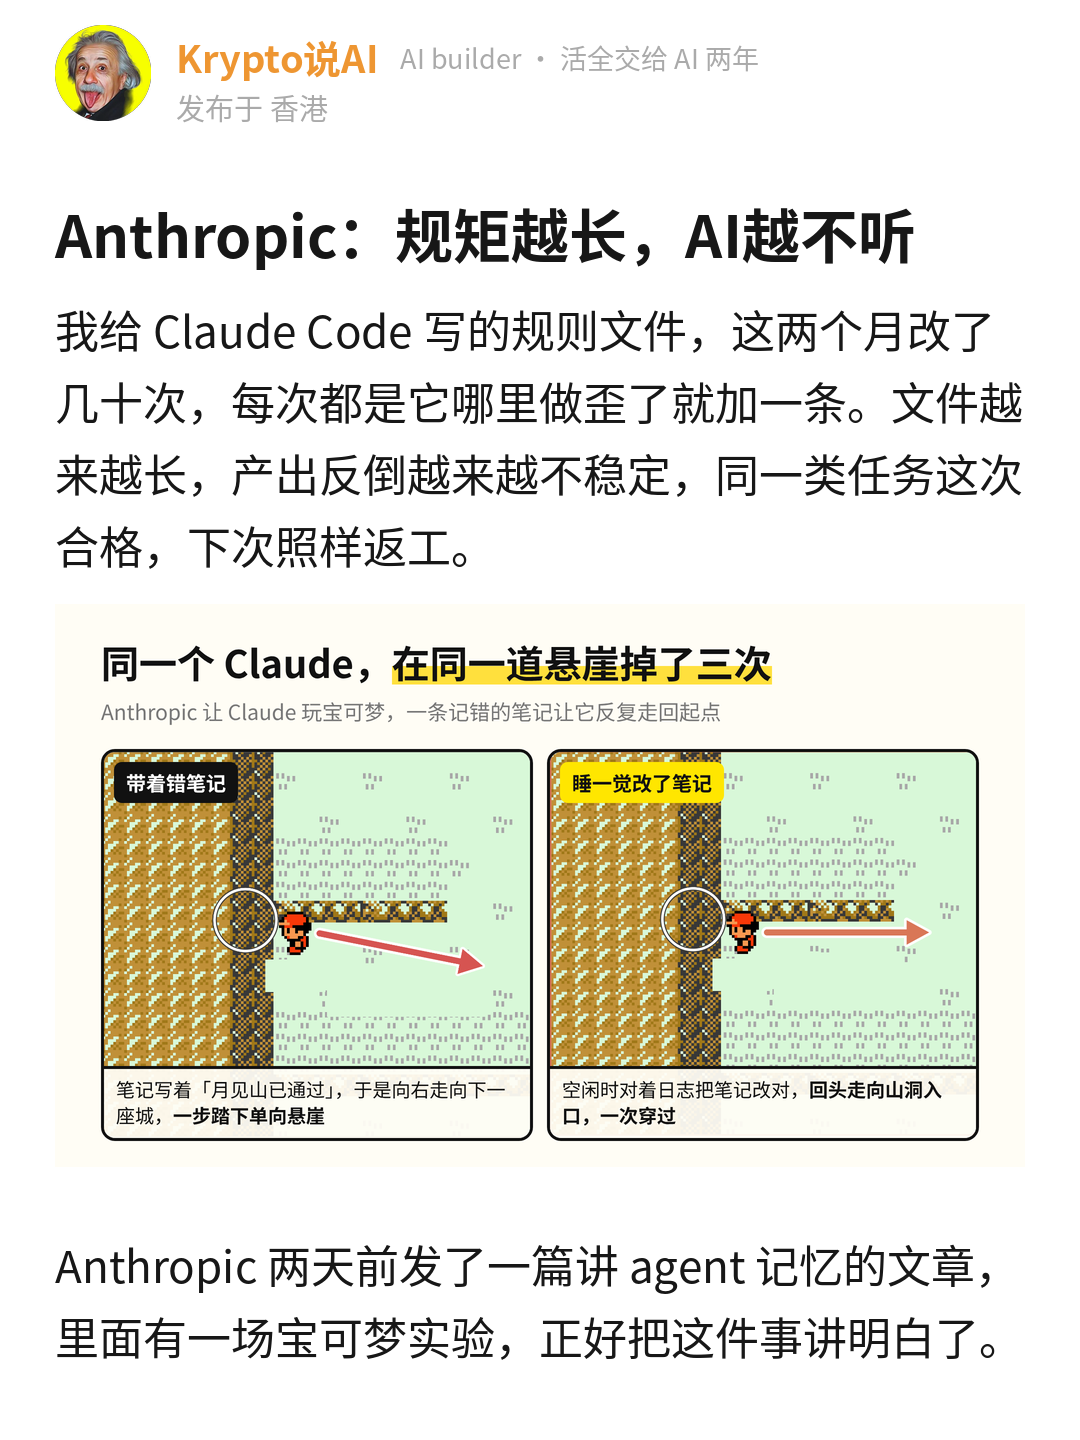
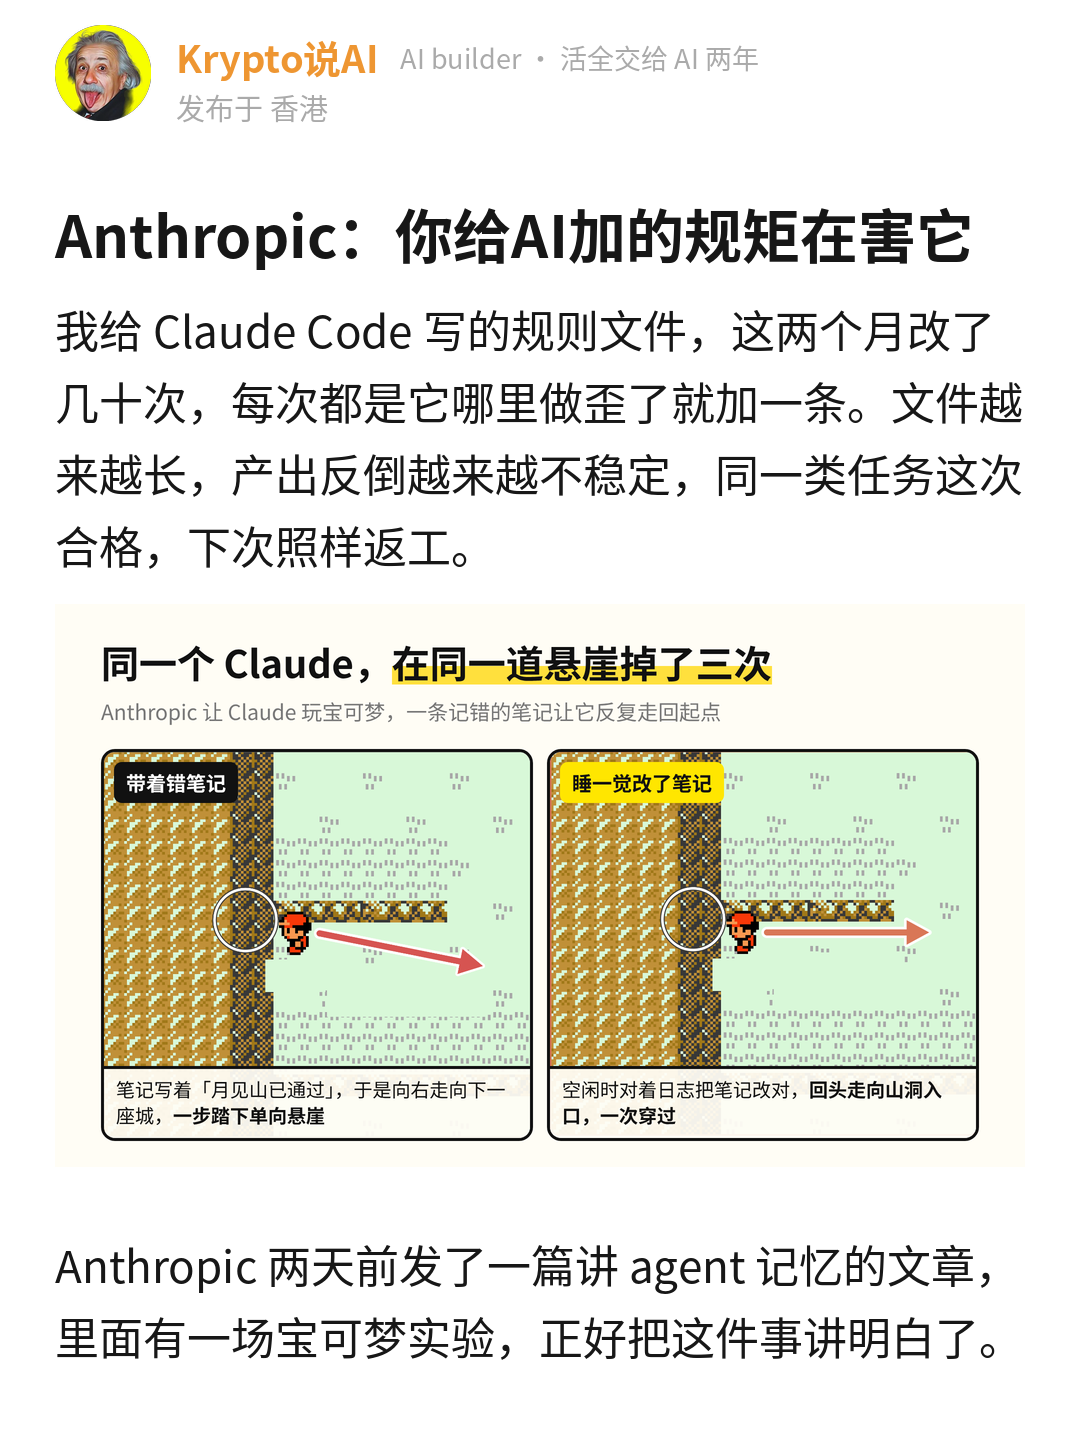
11-08 Anthropic agent 记忆稿：标题改「你给AI加的规矩在害它」
Claude-Session: https://claude.ai/code/session_01NaeRTcsYKcBAg1tRMes8U4

Changed region(s): [[0.3667, 0.125, 0.9167, 0.1875]]

diff --git a/CLAUDE.md b/CLAUDE.md
@@ -3,7 +3,7 @@
 这个仓库是小红书账号 **Krypto说AI** 的工作区，也是它的记忆。在这里做的每一篇稿子，先读本页，再读 `账号/档案.md`、`账号/经历库.md` 和 `账号/爆文方法论.md`（10-14 起，选题 / 标题 / 首图 / 原文跟发的发前清单，交付时逐条写过没过）。每次用户说了新的经历、新的观点、新的规则，写回这两份文件并更新本页摘要，不要只留在对话里。
 
 ## 摘要
-- **11-08 Anthropic agent 记忆稿（meme-v2 第 14 篇，观察，value 信息 + 行动，立场 D，`发布/2026-11-08_anthropic-agent-memory/meme-v2版/`，8 页 + 名片卡，待用户看）**：素材是用户发来的 Anthropic 11-06《The Components of Agent Memory》打包（全文 + 17 张图，存 `编辑用/source.md`、`figs/`）。先问走了，用户答：① 「skills里面确实越改越长，但是会让产出不稳定」，要我结合文章解释为什么（经历库 #40，代价 = 产出不稳定、返工）；② 反问「记忆是做什么的」；③ 信息 + 行动；④ 立场 D。起法是自己工作里正在发生的事（规则文件越改越长），跟上一篇反常事实不同；第二段宝可梦反差（413 个文件 1 徽章 vs 10 个文件 4 徽章）。四个点：记得多的输在读上（17 步没动游戏）→ 记忆是预测、只记屏幕上没有的（鲤鱼王那条规则，`what.png`）→ 死规则「只记失败」让 Opus 5 提升几乎全丢 + Claude Code 文档「指令文件越长遵守越差、只加载前 200 行」= 越长越不稳定的解释 → 错笔记三次掉悬崖、dreaming 对日志改正（`figs/ledge.png`）→ 判断（人维护两样：说清记忆为了什么、定期对日志删）→ 行动三条 → 结尾问「上一次删掉一条规矩是什么时候」。stance 进观点库 #32（归 D）。图：`figs/folders.png` 文件夹树图当 hero、`what.png` 自绘、`figs/onlyfail.png`、`figs/ledge.png`。render_illus 云端截图仍失败，用 Playwright 脚本截。check 0 ✗ 6 ⚠（数字 15 / 千字和开头 8 锚点是 413 vs 10 这组反差数、因果词 4.6、备选标题句式提示）。标题「Anthropic：规矩越长，AI越不听」，备选「强烈推荐Anthropic这篇AI记忆。」「Anthropic：AI笔记越多，玩得越差」。门票四条都过（Anthropic / 每个人给 AI 写规矩怎么办 / 名字 + 反差 / 第一句我在改规则文件）。注意：这篇「我」写的是规则文件越改越长，没写「用 skills 写图文」。**用户看初稿改三条（11-08）**：首图树图字太小看不清、第 5 页只有一张英文柱图很突兀、纯文字页都要有可视化 → 首图换自绘 `vs.png`（413 文件 1 徽章 vs 10 文件 4 徽章大数字卡，`hero_max: 400`）；英文柱图换中文 `rules.png`（三个模型丢多少 + 结论）；新加 `read.png`（17 步新建 6 删 9 动作 0）、`predict.png`（算预测 vs 不算预测）、`why.png`（规则几十条 → 三条机制 → 这次合格下次返工，回答用户第 ① 问）、`dream.png`（干活时 → 空闲时对日志 → 下一次）、`plan.png`（我的三条行动），`what.png`、`figs/ledge.png` 保留，共 9 张图 11 页（10 页正文 + 名片卡）；树图和英文柱图留在 `figs/`。改前存 `draft_v1_首图树图_第五页孤图.md`。**用户再改两条（11-08）**：标题备选要更多钩子；首页要素材里跟宝可梦实验直接相关的游戏画面 → 素材 17 张图里只有月见山悬崖那张双联图是真游戏画面，裁成左右两块（`figs/ledge_L.png` / `ledge_R.png`，英文标注用底色涂掉），做成中文标注的 `hero.png`（标题「同一个 Claude，在同一道悬崖掉了三次」，左「带着错笔记 → 一步踏下单向悬崖」右「睡一觉改了笔记 → 回头走向山洞入口」），`hero_after: 1`、`hero_max: 600`，第二段挪到图后；第 4 点里原来的 `figs/ledge.png` 去掉不重复；`vs.png` 大数字卡留着没用。标题备选扩到 7 条（AI在同一悬崖掉三次 / AI的规矩一半白写了 / 给AI的规矩别超一页 / 实验：AI笔记越多越笨 / AI睡一觉，错自己改 / 强烈推荐…），全部 20 字内、Anthropic 开头
+- **11-08 Anthropic agent 记忆稿（meme-v2 第 14 篇，观察，value 信息 + 行动，立场 D，`发布/2026-11-08_anthropic-agent-memory/meme-v2版/`，8 页 + 名片卡，待用户看）**：素材是用户发来的 Anthropic 11-06《The Components of Agent Memory》打包（全文 + 17 张图，存 `编辑用/source.md`、`figs/`）。先问走了，用户答：① 「skills里面确实越改越长，但是会让产出不稳定」，要我结合文章解释为什么（经历库 #40，代价 = 产出不稳定、返工）；② 反问「记忆是做什么的」；③ 信息 + 行动；④ 立场 D。起法是自己工作里正在发生的事（规则文件越改越长），跟上一篇反常事实不同；第二段宝可梦反差（413 个文件 1 徽章 vs 10 个文件 4 徽章）。四个点：记得多的输在读上（17 步没动游戏）→ 记忆是预测、只记屏幕上没有的（鲤鱼王那条规则，`what.png`）→ 死规则「只记失败」让 Opus 5 提升几乎全丢 + Claude Code 文档「指令文件越长遵守越差、只加载前 200 行」= 越长越不稳定的解释 → 错笔记三次掉悬崖、dreaming 对日志改正（`figs/ledge.png`）→ 判断（人维护两样：说清记忆为了什么、定期对日志删）→ 行动三条 → 结尾问「上一次删掉一条规矩是什么时候」。stance 进观点库 #32（归 D）。图：`figs/folders.png` 文件夹树图当 hero、`what.png` 自绘、`figs/onlyfail.png`、`figs/ledge.png`。render_illus 云端截图仍失败，用 Playwright 脚本截。check 0 ✗ 6 ⚠（数字 15 / 千字和开头 8 锚点是 413 vs 10 这组反差数、因果词 4.6、备选标题句式提示）。标题「Anthropic：规矩越长，AI越不听」，备选「强烈推荐Anthropic这篇AI记忆。」「Anthropic：AI笔记越多，玩得越差」。门票四条都过（Anthropic / 每个人给 AI 写规矩怎么办 / 名字 + 反差 / 第一句我在改规则文件）。注意：这篇「我」写的是规则文件越改越长，没写「用 skills 写图文」。**用户看初稿改三条（11-08）**：首图树图字太小看不清、第 5 页只有一张英文柱图很突兀、纯文字页都要有可视化 → 首图换自绘 `vs.png`（413 文件 1 徽章 vs 10 文件 4 徽章大数字卡，`hero_max: 400`）；英文柱图换中文 `rules.png`（三个模型丢多少 + 结论）；新加 `read.png`（17 步新建 6 删 9 动作 0）、`predict.png`（算预测 vs 不算预测）、`why.png`（规则几十条 → 三条机制 → 这次合格下次返工，回答用户第 ① 问）、`dream.png`（干活时 → 空闲时对日志 → 下一次）、`plan.png`（我的三条行动），`what.png`、`figs/ledge.png` 保留，共 9 张图 11 页（10 页正文 + 名片卡）；树图和英文柱图留在 `figs/`。改前存 `draft_v1_首图树图_第五页孤图.md`。**用户再改两条（11-08）**：标题备选要更多钩子；首页要素材里跟宝可梦实验直接相关的游戏画面 → 素材 17 张图里只有月见山悬崖那张双联图是真游戏画面，裁成左右两块（`figs/ledge_L.png` / `ledge_R.png`，英文标注用底色涂掉），做成中文标注的 `hero.png`（标题「同一个 Claude，在同一道悬崖掉了三次」，左「带着错笔记 → 一步踏下单向悬崖」右「睡一觉改了笔记 → 回头走向山洞入口」），`hero_after: 1`、`hero_max: 600`，第二段挪到图后；第 4 点里原来的 `figs/ledge.png` 去掉不重复；`vs.png` 大数字卡留着没用。标题备选扩到 7 条（AI在同一悬崖掉三次 / AI的规矩一半白写了 / 给AI的规矩别超一页 / 实验：AI笔记越多越笨 / AI睡一觉，错自己改 / 强烈推荐…），全部 20 字内、Anthropic 开头。**用户：「标题还是缺少吸引力 / 冲突感 / 钩子」** → 标题 / headline 改「Anthropic：你给AI加的规矩在害它」（20 字，对着读者说、有冲突，跟首页第一段「我的规则文件越改越长」是同一件事），备选换成「Claude玩宝可梦，笔记越多输得越惨」「我给Claude写的规矩，一半白写了」「Anthropic打脸了我给AI写的规矩」「Claude为一条错笔记，掉了三次悬崖」「Anthropic告诉我：别教AI怎么做」，Claude 当 keyword 时也在前 6 字
 - **11-07 数据复盘（`复盘/2026-11-07_数据复盘_四篇爆款的共同点和之后十四篇的差别.md`，截图 `复盘/2026-11-07_后台数据/`，日志 views / likes / comments 已按 11-07 回填；用户 11-08 点头）**：36 篇按观看排，四篇过 5 万的全在 10-08 到 10-18（李录 14.8 万 / 路线图 10.5 万 / Wang 7.2 万 / 就业报告 7 万），全是 meme 原版编号笔记体；10-19 之后 17 篇中位数 225、评论 0 到 2，唯一过千的是 11-03 Kotler 心流稿（8333，赞率 8.7% 全账号第一；meme-v2 写的，分支 `claude/nice-pasteur-6te9vw` 没合，11-08 合进 main，经历库那条重编为 #39、观点库 #31）。五篇爆款共同点分两层：**进门四样**（路人认识的名字或身份、题材碰到「我自己怎么办」、标题名字 + 反差、前两行一个人站在能画出来的时刻里）+ **停留四样**（3 到 5 个分条的点每点原文场景 + 我一件事、聊天口吻带反应词、首页两段 + 一张脸、图 2 到 4 张）；10-19 之后的稿把进门四样同时丢了（圈内名字、行业框架题、第一页没场景、首页海报或图表），对标库里没有一个号这么做。**用户 11-08 定八条「爆款模板」**，写进 `账号/爆文方法论.md` 第五节、meme-v2 / meme-xhs SKILL、writing_guide、cover_guide、changelog；撤四条：v2 连贯短文默认、每页都有图、v3 首图、主编口径管口吻（只管用词）；加的只有选题门票。48 小时检验：观看 3000、赞率 3%，连续三篇不过查哪条没照做、不加新规则。A/B 结束：v2 输入侧保留、输出侧按八条。范本 README 加五篇爆款索引。商单赞数是否投放以后再说
 - **11-07 Huberman × a16z 访谈稿（meme-v2 第 13 篇，retell，value 框架，立场 A，`发布/2026-11-05_huberman-a16z/meme-v2版/`，8 页 + 名片卡，待用户看）**：素材是 a16z 11-03 推文打包（Andrew Huberman 上 a16z Show 约 48 分钟英文自动转录 + 23 张截图，无字幕，存 `编辑用/source.md`、`shots/`）。先问发了，用户答「你定」，全部默认。起法是反常事实（锁盒：X 和 Instagram 挪到另一部手机锁进锁盒，「我们本该管得住自己，为什么我需要一个锁盒」），跟上一篇 MIT（自己工作里的事）不同。骨架：锁盒 → 手机放另一个房间才腾出认知资源的研究 → 一天两段 bouts（9:30–12:30、16:30–19:00，只有家人同事急事能打断，被拉走丢的不只三小时）→ 锻炼 9 点前、「没人付钱让我锻炼」→ 三件事（晨光 / 每周三次力量两组力竭 / 睡眠先学会重新入睡）→ 我用 Grok bot 定时抓推特（经历库 #10）当同一问题的另一种解法 → 他期待的 AI 教练 + 专注状态还说不清 → 我的高尔夫动作 AI 教练（#14 #27）：有标准动作的已能交给 AI，注意力放哪没有标准答案 → 判断（执行变便宜，最稀缺的是两三段清醒时间，能交的都交，包括刷信息流）→ 结尾问「你最清醒的三个小时交给了谁」。stance_line A，cost 无。图：`shots/02` hero、`windows.png` 两段时间轴、`habits.png` 三件事、`04_gesture`、`t2000`。check 0 ✗ 1 ⚠（数字 13 / 千字，作息稿时间点多，留）。标题「斯坦福神经科学家：我把手机锁进了锁盒」，备选「强烈推荐斯坦福教授这期a16z访谈。」「斯坦福教授：一天只有两段真专注」。正文.txt 领取物是找自己两段专注时间的提示词，回指 a16z 差距稿。注意：这篇主体是健康 / 效率题，跟 AI 的连接在 Grok bot、AI 教练和判断段
 - **11-05 MIT AI 决策矩阵稿（meme-v2 第 12 篇，观察，value 信息 + 框架，立场 A，`发布/2026-11-05_mit-ai-decision-matrix/meme-v2版/`，6 页 + 名片卡，待用户看）**：素材是 MIT Sloan 9-22 Beth Stackpole 文章（MIT CISR 四位研究者访谈 30 位高管，模糊度 × 风险四格：例行 / 重大 / 探索 / 战略，每个决策拆定义问题 / 执行 / 复盘，例子全来自 One NZ 50+ agent）。用户要求原文象限图放首图（从手机截图裁出 `matrix.jpg`，涂掉分享按钮）。先问走了，用户答：① 「任何事情如果需要我重复一次以上 我都会把他做成skills或者工作流」（经历库 #36）② 同意战略格留给人（观点库 #30）③ 信息和框架都要 ④ 立场 A；⑥ 代价没答，cost 无。起法是一次实测（这篇图文本身由 skill 跑出来，我只回答四个问题、看一遍成稿），「我」三次：开头规矩 → 写稿 skill 落在例行格但只交出执行、定义问题和复盘留着（`mine.png`）→ 结尾回扣。图：`matrix.jpg` hero、`steps.png` 中文四格 + 三步 + One NZ 例子（复盘三格归人）、`mine.png`。回指蚂蚁阿福（医疗在重大格）。check.py 0 ✗ 4 ⚠（1026 字偏短、无「你」段可选、两条标题备选 MIT 不在前 6 字）；check_paste 的「二选一 A 或 B」✗ 是旧规则（meme-v2版 目录没被认成 meme），正文.txt 已放四选一互动问题。标题「MIT这张图：哪些决定能交给AI」，备选「强烈建议用AI干活的人看看MIT这张图。」「MIT这张图，我拿自己对了一遍」。**用户 11-05 改：不要用「我用 skills 写图文」这件事开头** → 开头换成反常事实起法「新西兰一家电信公司跑着 50 多个 AI agent，唯独报价这件事，不许任何一个单独做主」+ 第二段交代 One NZ 是 MIT 文章案例，首页 = 标题 + 两段 + 象限图；「我」的规矩（重复两次写成 skill）挪到复盘那段之后当检验台，`mine.png` 标题改「写稿 skill，哪一步在我手里」；结尾改回扣报价「为结果负责的人，得有名有姓」。改前存 `draft_v1_skill写图文开头.md`。check 0 ✗ 5 ⚠（982 字、开头 6 锚点、电报分句 5.1、无「你」段、备选标题 MIT 靠后）。**用户再改三条（11-05）**：首页图放大（裁掉 KEY 图例和出处行成 `matrix_big.jpg`，`hero_after: 1`、`hero_max: 900`，原裁图存 `matrix_full.jpg`）；不再写「我用 skills 写图文」（写稿 skill 例子和 `mine.png` 删掉，「我」段只留规矩：重复第二次写成 skill，落在例行格，规矩我定、结果我看）；每页一张可视化 → 新加 `axes.png`（两条轴 + 三步）、`sql.png`（例行格流程）、`price.png`（报价除外）、`owner.png`（具名负责人）、`rule.png`（重复第二次就写成 skill）、`grow.png`（例行格变大、三样留给人），8 页正文每页都有图 + 名片卡。改前存 `draft_v2_第六页写稿skill.md`。**用户：个人 IP 感太少，查对标库同类稿怎么加真人感**（读了小盖 X2Real / 出海 / 字节 Seed / 飞书 / 就业报告、MemeInformation 表妹 / 豆包 / 朱啸虎、JackClark 奇点稿、10-30 蒸馏）：诊断是「我」只出现一次且是陈述、删掉文章照样成立、没身份没劝人。补问后用户答：给客户的对外文件涉及合规审查、不能 AI 独立完成（经历库 #37）；战略是自己设计的项目方案、必须自己拍板（#38）；代价暂时没有；建议句「重复的事尽管交出去，复盘留在自己手里」认可。重写：第一句「我在香港做 fintech……只有给客户的对外文件例外：每一份都要过合规审查」，One NZ 报价当对照（`same.png`），四格每格都放「我」的一件事（例行 Grok bot + Codex 定时任务、重大 对外文件合规、探索 美股宏观监控 + 高尔夫 AI 教练、战略 项目方案拍板，`mine4.png` 我的四格），结尾劝一句 + 回扣对外文件和报价。新增 `strat.png`，删 `rule.png` `grow.png`。8 页正文每页有图 + 名片卡。改前存 `draft_v3_IP感少.md`

diff --git a/发布/2026-11-08_anthropic-agent-memory/meme-v2版/编辑用/draft.md b/发布/2026-11-08_anthropic-agent-memory/meme-v2版/编辑用/draft.md
@@ -1,5 +1,5 @@
 ---
-title: Anthropic：规矩越长，AI越不听
+title: Anthropic：你给AI加的规矩在害它
 value: 信息 + 行动
 stance: 给 agent 写的规则文件只会越写越长，因为每一条都是上一次翻车的补丁；人该维护的只有两样，告诉它这份记忆是为了什么，再定期对着日志把错的和过时的删掉
 stance_line: D
@@ -7,7 +7,7 @@ reader: 刚在规则文件里又加了一条「以后不许这样」、发现它
 cost: 规则文件越改越长，产出反而越来越不稳定，同一类任务这次合格、下次返工
 keyword: Anthropic
 keywords: Anthropic, Claude, agent, 记忆, CLAUDE.md, 宝可梦, dreaming
-headline: Anthropic：规矩越长，AI越不听
+headline: Anthropic：你给AI加的规矩在害它
 hero: hero.png
 hero_after: 1
 hero_max: 600
